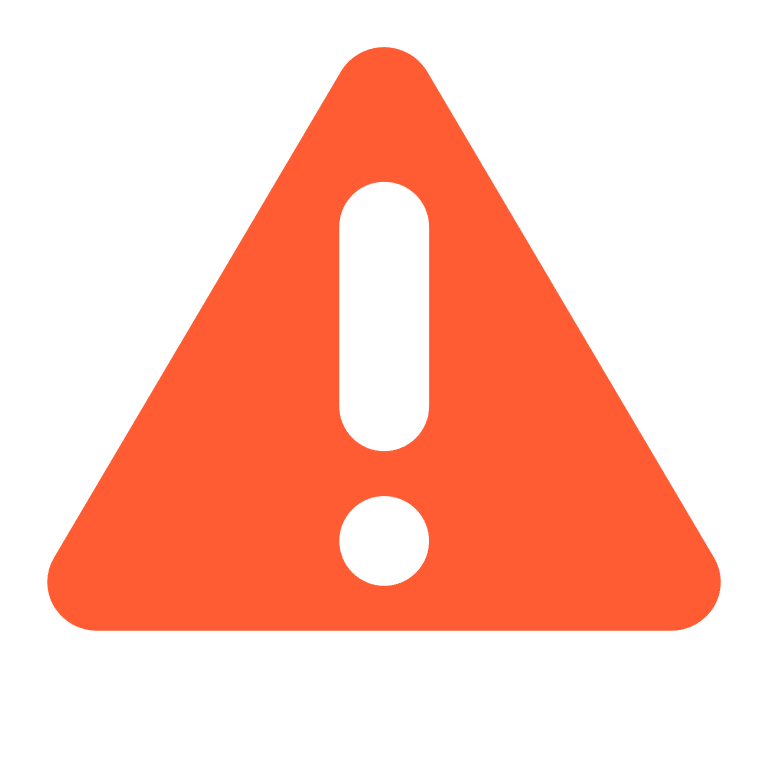
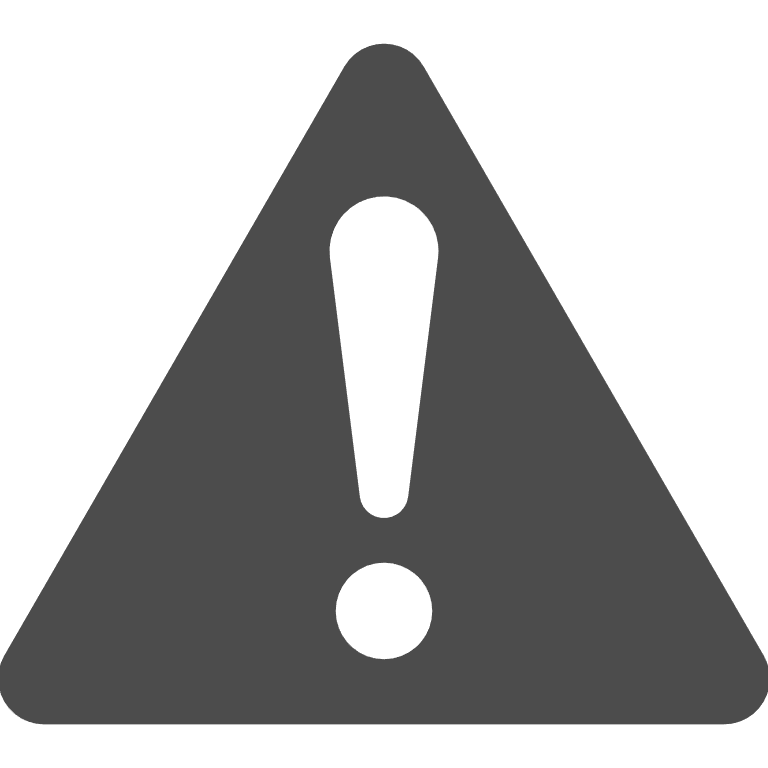
Add no data warning

diff --git a/layout.html b/layout.html
@@ -212,6 +212,7 @@
       --border-subtle: #252526;
       --text-primary: #cccccc;
       --text-bright: #ffffff;
+      --text-dark: #1e1e1e;
       --text-muted: #858585;
       --accent-primary: #0078d4;
       --accent-hover: #1084df;
@@ -255,7 +256,7 @@
       --code-line-highlight: linear-gradient(90deg, rgba(255, 255, 255, 0.08) 0%, rgba(255, 255, 255, 0.03) 75%, transparent 100%);
 
       /* Data structures */
-      --ds-primary: #6a9955;
+      --ds-primary: #eeb700;
     }
 
     [data-theme="light"] {
@@ -273,6 +274,7 @@
       --border-subtle: #eaeaea;
       --text-primary: #3b3b3b;
       --text-bright: #1e1e1e;
+      --text-dark: #ffffff;
       --text-muted: #616161;
       --accent-primary: #005fb8;
       --accent-hover: #0258a8;
@@ -318,7 +320,7 @@
       --code-line-highlight: linear-gradient(90deg, rgba(0, 95, 184, 0.1) 0%, rgba(0, 95, 184, 0.03) 75%, transparent 100%);
 
       /* Data structures */
-      --ds-primary: #008000;
+      --ds-primary: #005fb8;
     }
 
     /* ========== Global & Base Styles ========== */
@@ -677,6 +679,7 @@
       width: 1.15rem;
       height: 1.15rem;
       object-fit: contain;
+      filter: var(--sidebar-icon-filter);
     }
 
     /* ========== End of Floating Window & Header Warning Styles ========== */
@@ -5089,6 +5092,10 @@
           localStorage.setItem(LAYOUT_CONFIG.THEME_STORAGE_KEY, pref);
         } catch (err) { }
       }
+
+      try {
+        redrawAllDsCanvases();
+      } catch (err) { }
     }
 
     /* Initial Theme Application & Event Listeners for Desktop and Mobile Theme Buttons */

diff --git a/dsa/Array.js b/dsa/Array.js
@@ -121,6 +121,7 @@ export function drawArray(containerEl, camera = null, customHyperparams = {}) {
   const rootStyle = getComputedStyle(document.documentElement);
   const barFill = rootStyle.getPropertyValue('--ds-primary').trim();
   const textBright = rootStyle.getPropertyValue('--text-bright').trim();
+  const textDark = rootStyle.getPropertyValue('--text-dark').trim();
 
   const cam = camera || containerEl._camera || { x: 0, y: 0, z: 1 };
   const useWorldOrigin = Boolean(camera || containerEl._camera);
@@ -201,7 +202,7 @@ export function drawArray(containerEl, camera = null, customHyperparams = {}) {
     ctx.beginPath();
     ctx.rect(x, y, barWidth, barH);
     ctx.fillStyle = barFill;
-    ctx.globalAlpha = isDraggingThis ? 1 : 0.8;
+    ctx.globalAlpha = 1
     ctx.fill();
 
     ctx.globalAlpha = 1;
@@ -216,7 +217,7 @@ export function drawArray(containerEl, camera = null, customHyperparams = {}) {
     const valX = x + barWidth / 2;
     const valY = baselineY - 20;
 
-    ctx.fillStyle = '#ffffff';
+    ctx.fillStyle = textDark;
     ctx.fillText(String(d.value), valX, valY);
 
     // 3. Index Label (placed directly below the baseline, right below the value)
